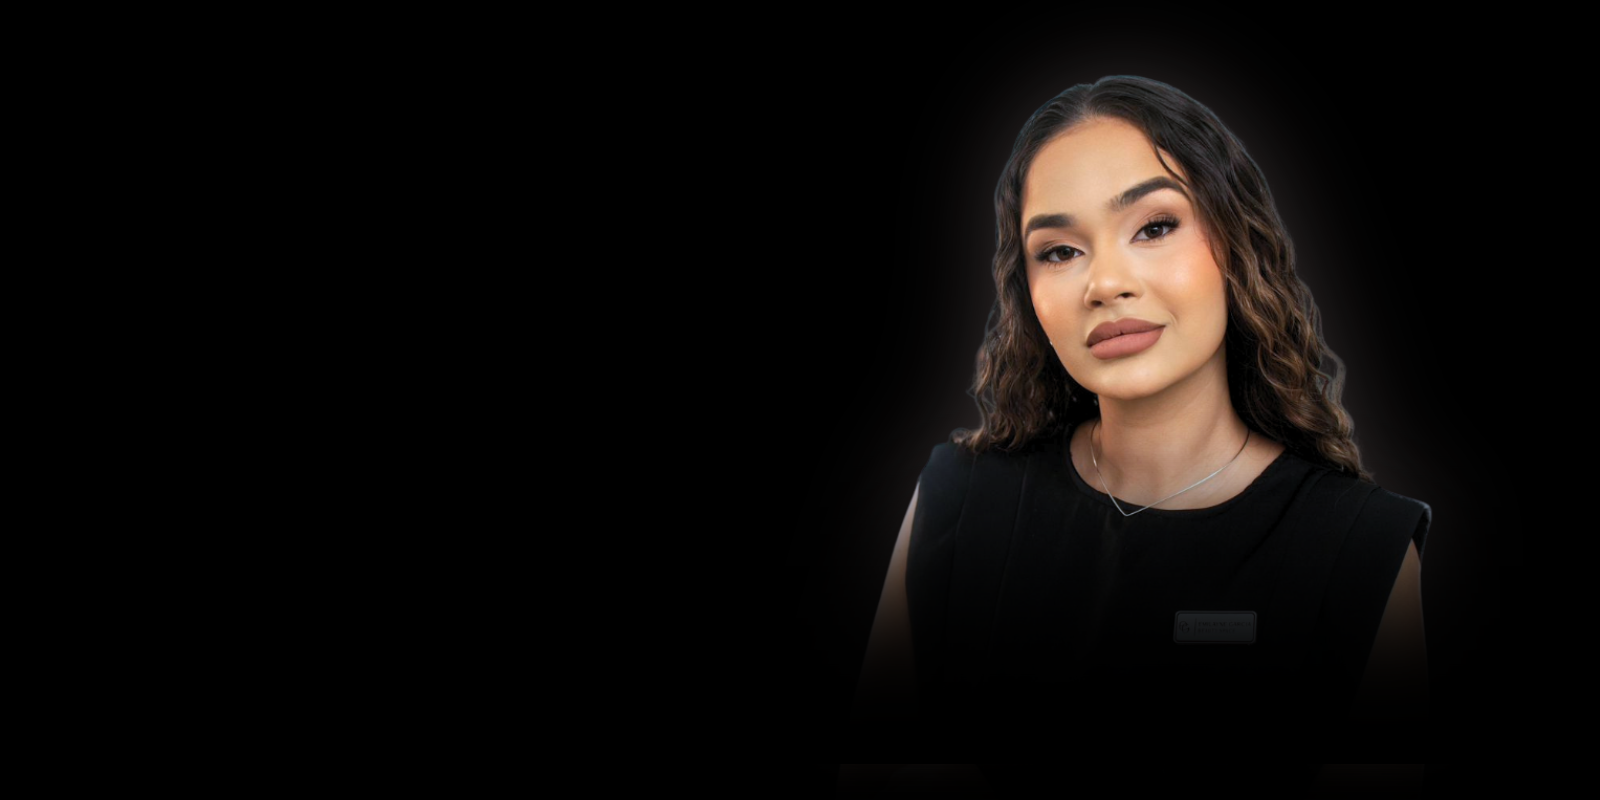
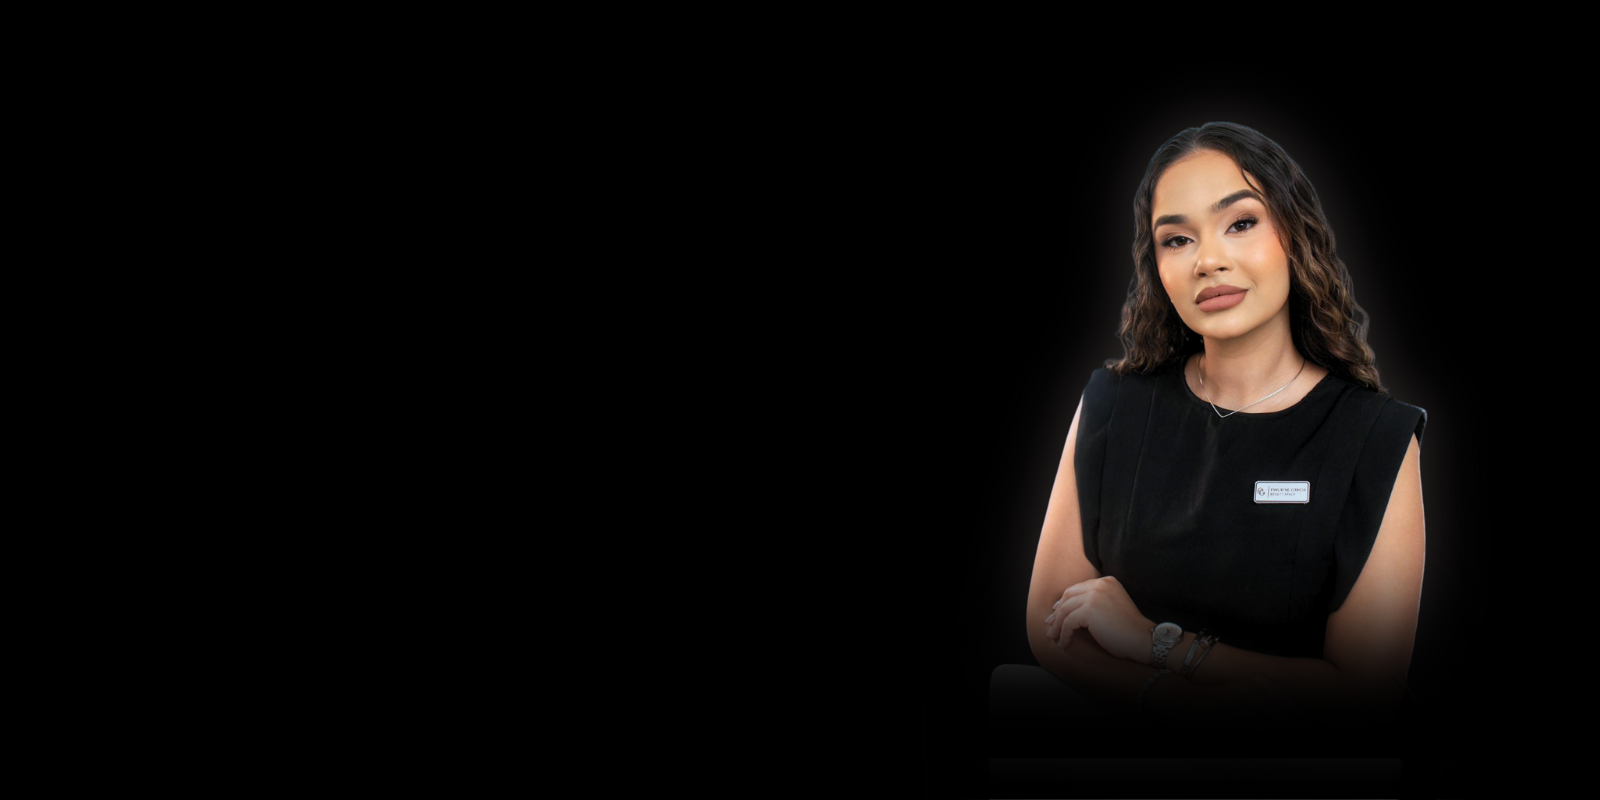
Update backgrounds

Changed region(s): [[0.5312, 0.0938, 0.9062, 0.8438]]

diff --git a/styles/style.css b/styles/style.css
@@ -84,6 +84,7 @@ header {
   justify-content: center;
   align-items: center;
   flex-direction: row;
+  background-image: url("../assets/background-nav.png");
 }
 
 .section-header .content-header {
@@ -323,7 +324,7 @@ header {
   width: 100%;
   height: 100%;
   object-fit: cover;
-  opacity: 0.3;
+  opacity: 0.6;
   mix-blend-mode: lighten;
   transform: scaleX(-1);
   z-index: -1;
@@ -1085,6 +1086,11 @@ footer {
   .section-contact .content-contact .section-map .contatos-direto div p a {
     font-size: 14px;
     letter-spacing: normal;
+  }
+
+  .sobre .sobre-container .sobre-image img {
+    opacity: 0.3;
+    margin-left: 15px;
   }
 }
 

diff --git a/index.html b/index.html
@@ -102,7 +102,7 @@
                     </div>
 
                     <div class="sobre-image">
-                        <img src="assets/background sobre.jpg" alt="Emilayne Garcia" />
+                        <img src="assets/background sobre.png" alt="Emilayne Garcia" />
                     </div>
                 </div>
                 <section class="slider-carousel">
